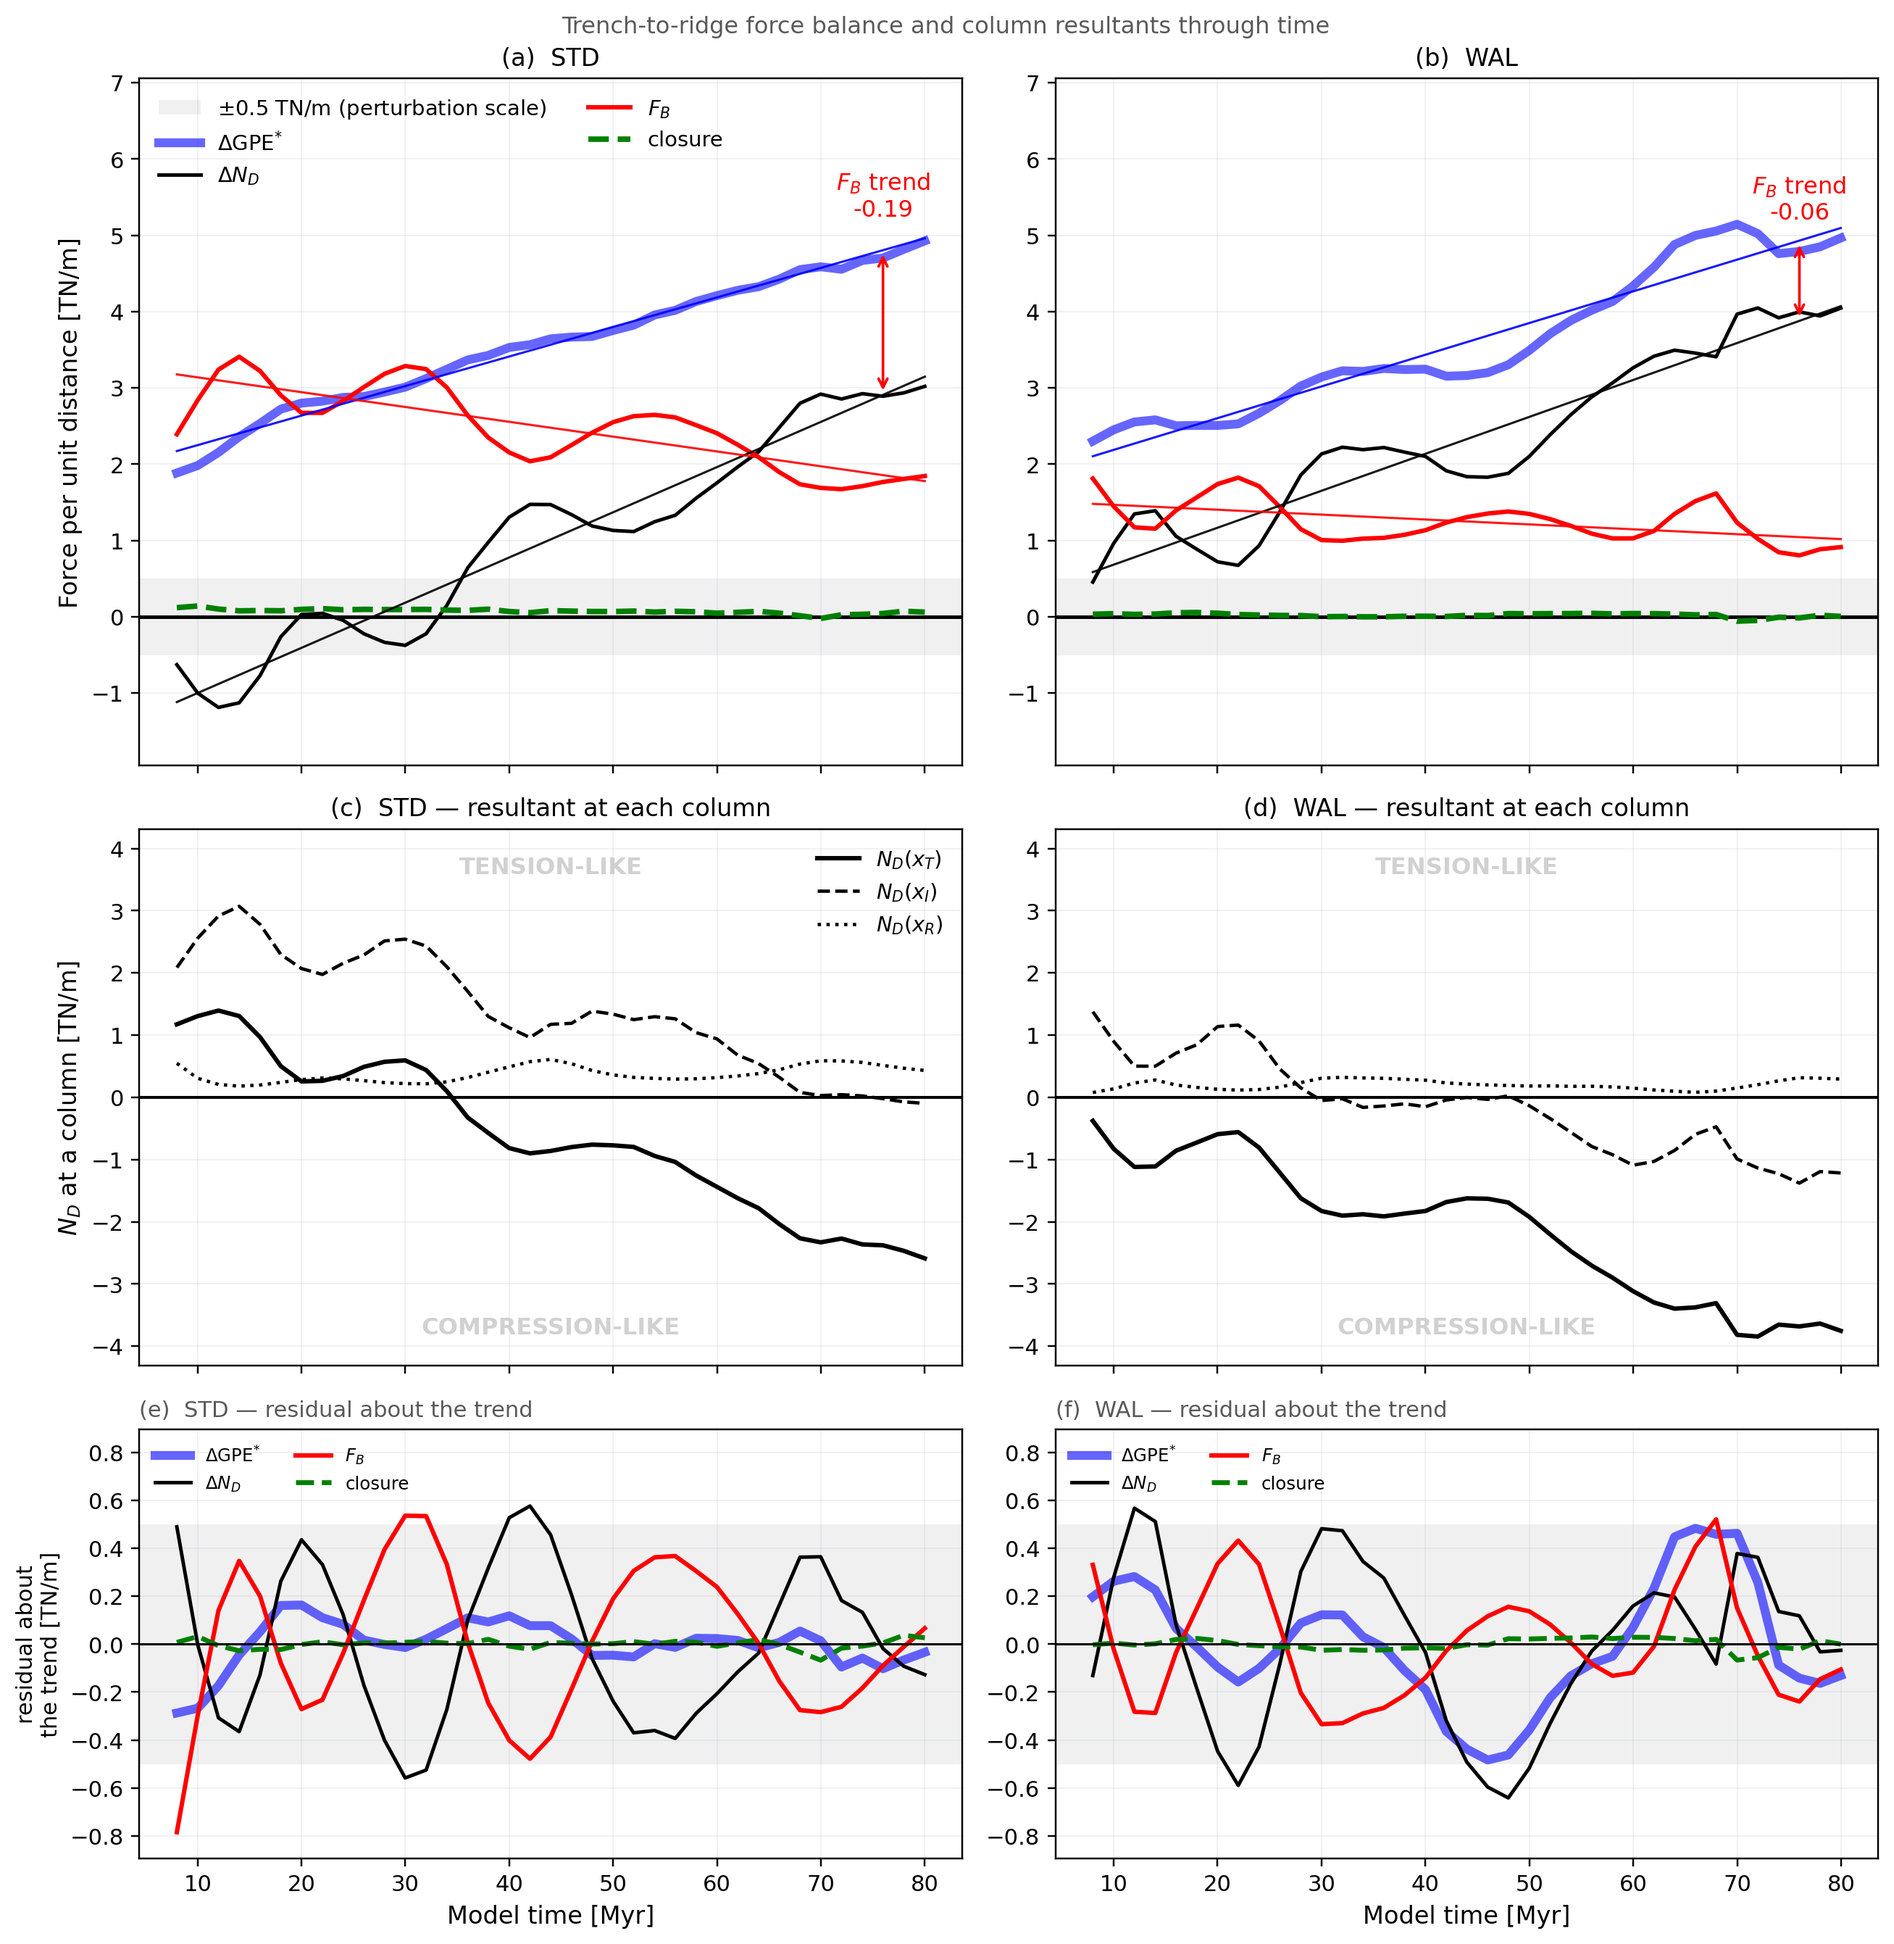
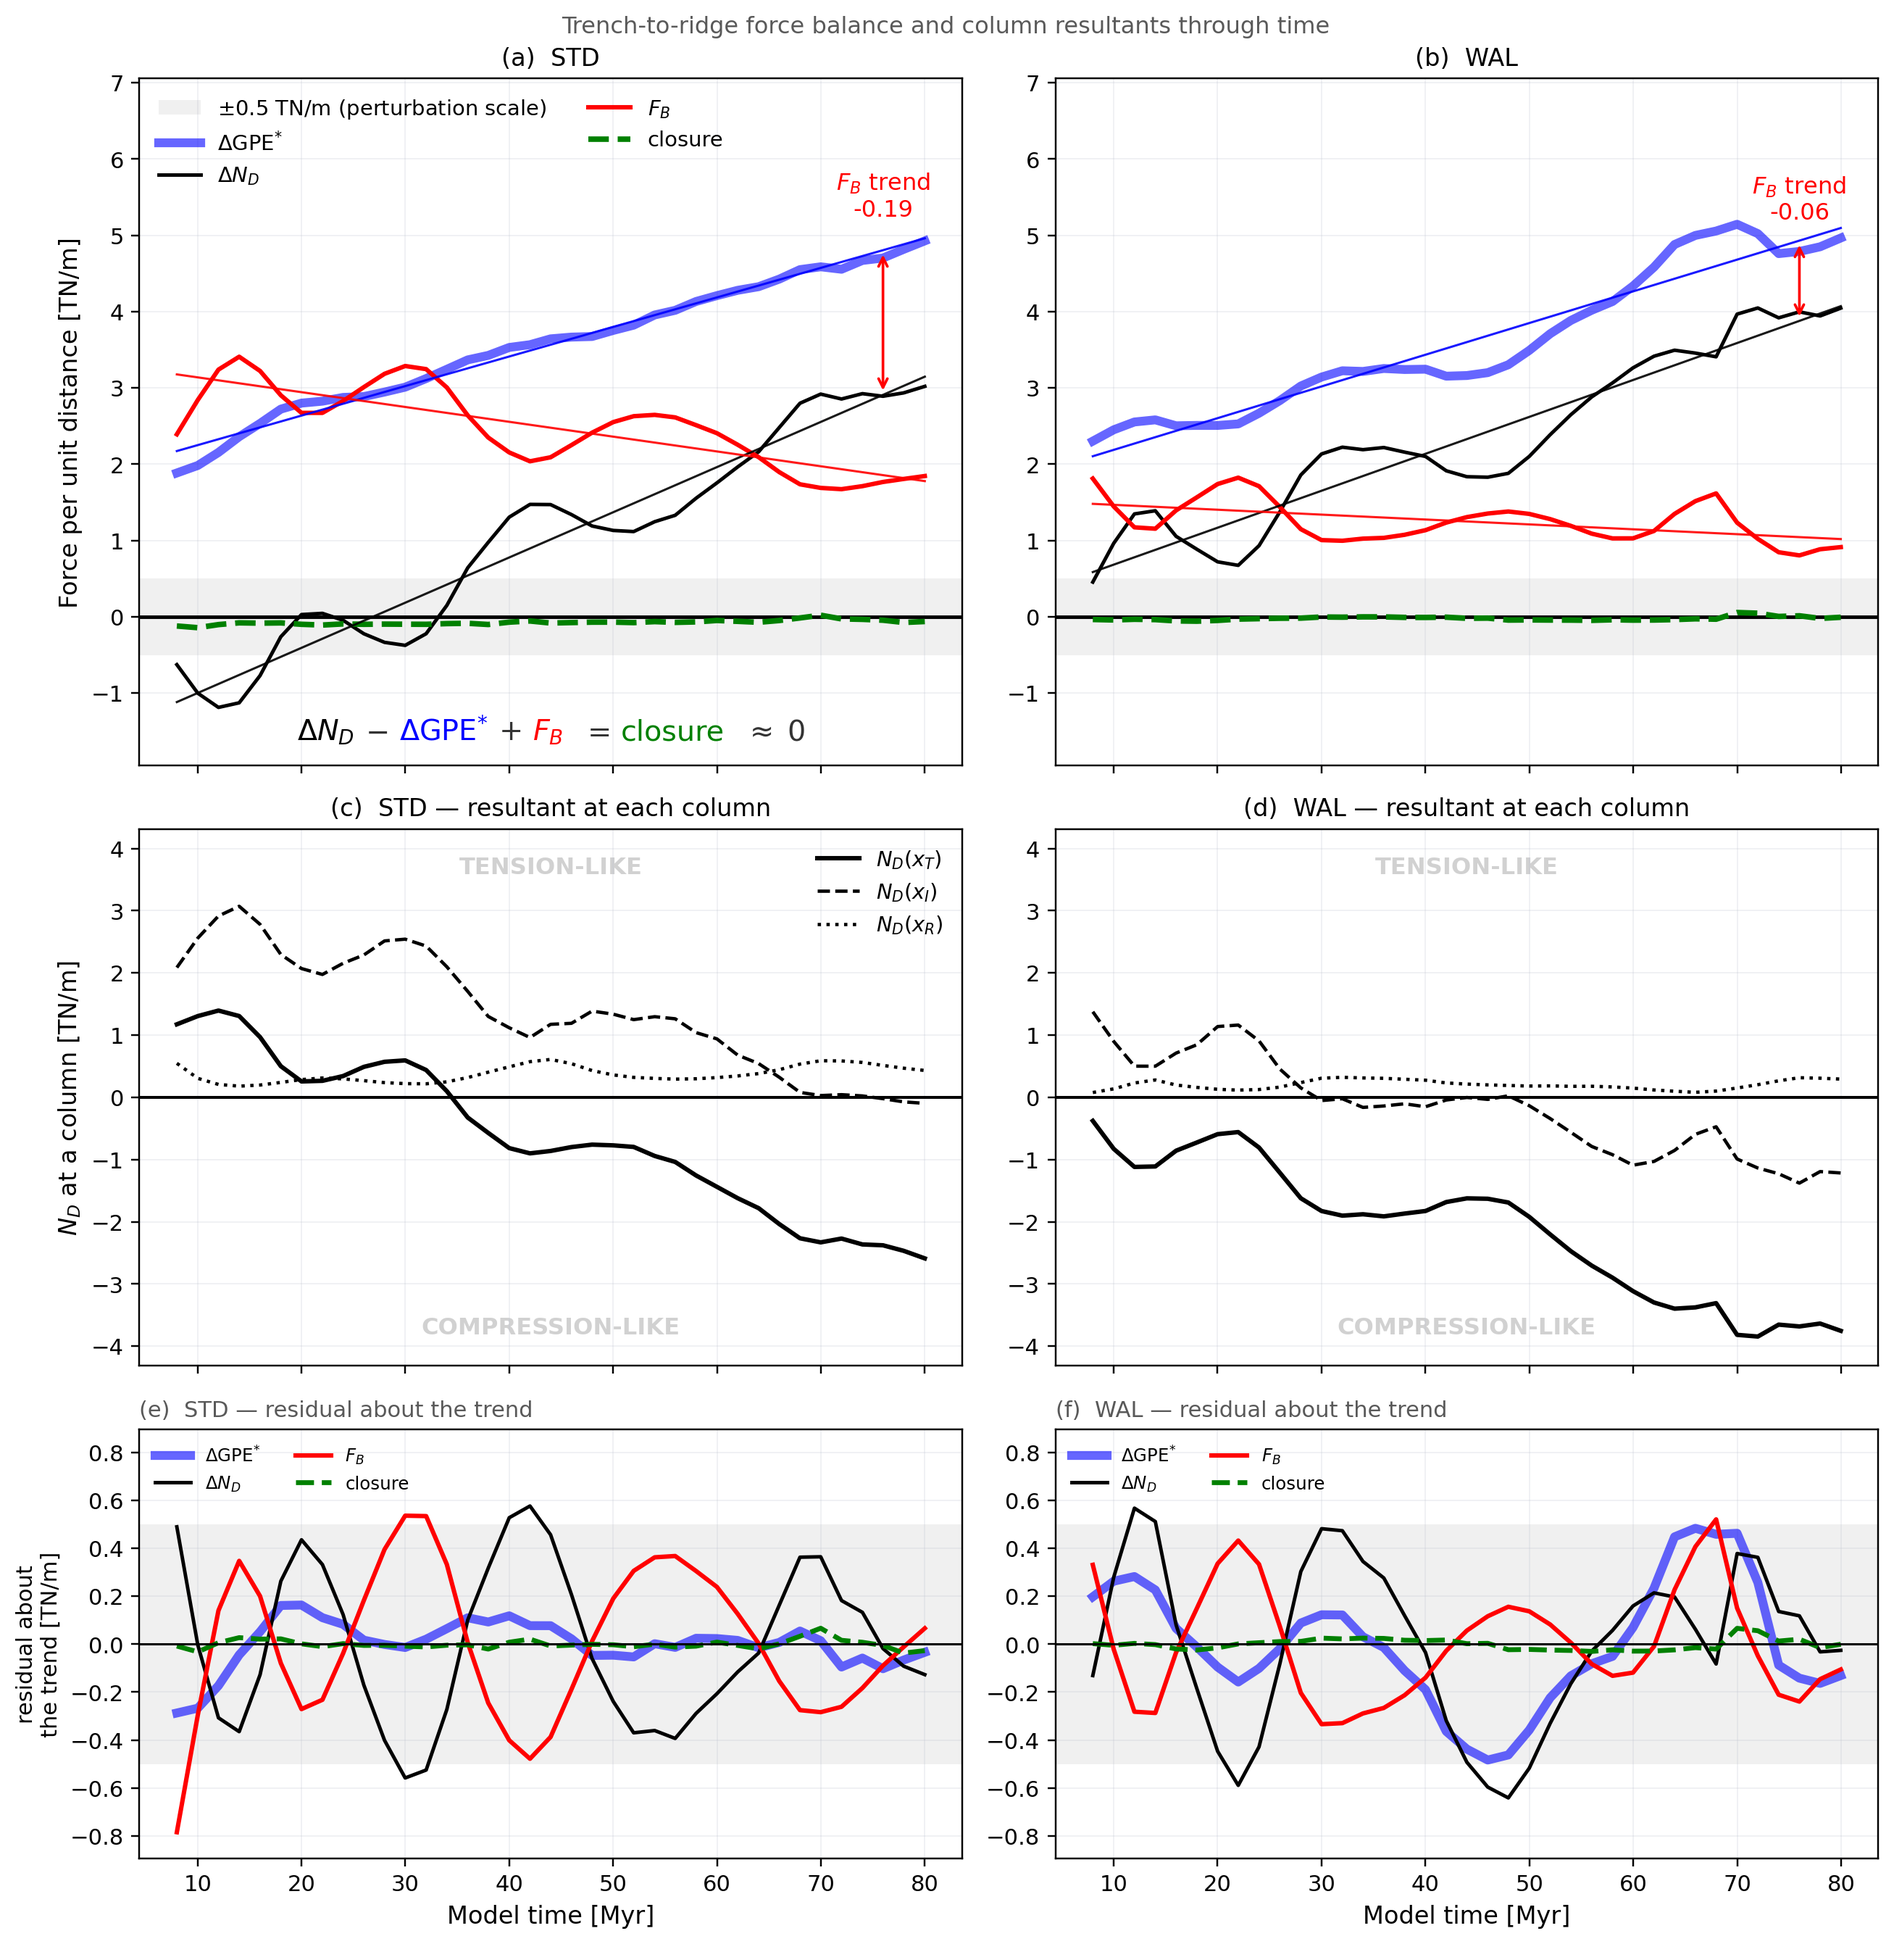
Figure 4: the balance written out, and a sign reconciled with Figure 3
TEST, panel (a) only. The top row plots the three terms as levels and
leaves the reader to infer that they close. The band below y = 0 is
empty, so the identity is simply stated there, each symbol in its own
curve's colour:

    Delta N_D - Delta GPE* + F_B  =  closure  ~ 0

Per-token colour needs an HPacker of TextAreas; mathtext cannot colour
part of one string.

⚠ A SIGN FIXED ON THE WAY. Figure 3 labels its green curve
'Delta N_D - Delta GPE* + F_B'. Figure 4 negated the same quantity, so
the two figures drew opposite signs of one curve and Figure 3's
expression could not honestly be written on Figure 4. Now both carry
Figure 3's sign and Figure 3's ordering. The magnitude is 0.03-0.08
TN/m, so nothing in the panel moves visibly; what changes is that the
two figures agree.

The legend keeps the short word 'closure' -- the written balance gives
the expression, in green, so the two are linked by colour rather than by
repeating the algebra twice in one panel.

Panel (b) is deliberately untouched pending Dan's word on rolling it out.

diff --git a/scripts/fig_budget_time_detrended.py b/scripts/fig_budget_time_detrended.py
@@ -120,6 +120,7 @@ import numpy as np
 import matplotlib
 matplotlib.use('Agg')
 import matplotlib.pyplot as plt
+from matplotlib.offsetbox import TextArea, HPacker, AnchoredOffsetbox
 
 sys.path.insert(0, os.path.dirname(os.path.abspath(__file__)))
 import column_profiles_cache as cpc
@@ -150,9 +151,13 @@ def main():
         t = q['t'][m]
         gpe, nd, fb = (q['d_gpe'][m] / 1e12, q['d_nd'][m] / 1e12,
                        q['f_b'][m] / 1e12)
-        # CLOSURE IN THE DISPLAYED REGISTER: Delta GPE* - Delta N_D - F_B.
-        # terms() returns d_nd - d_gpe + f_b, which is its negative.
-        clo = -q['closure'][m] / 1e12
+        # CLOSURE AS FIGURE 3 PLOTS IT: Delta N_D - Delta GPE* + F_B.
+        # This was negated here, so Figures 3 and 4 drew opposite signs of
+        # one quantity and Figure 3's legend expression could not be used on
+        # Figure 4's curve. The magnitude is ~0.03-0.08 TN/m, so nothing in
+        # the panel moves visibly; what changes is that the two figures now
+        # agree (Dan, 2026-10-15).
+        clo = q['closure'][m] / 1e12
         sl = lambda y: np.polyfit(t, y, 1)[0] * 10          # per 10 Myr
 
         # ---------------- top: levels, as in fig_budget_time -------------
@@ -171,6 +176,8 @@ def main():
                 label=r'$\Delta\mathrm{GPE}^{*}$')
         a0.plot(t, nd, color='k', lw=1.6, label=r'$\Delta N_D$')
         a0.plot(t, fb, color='red', lw=2, label='$F_B$')
+        # SHORT in the legend: the written balance below the axis already
+        # gives the expression, and in green, so the two are linked by colour
         a0.plot(t, clo, color='g', ls='--', lw=2.5, label='closure')
         a0.plot(t, fit(t, gpe), color='b', lw=1.0, alpha=0.9)
         a0.plot(t, fit(t, nd), color='k', lw=1.0, alpha=0.9)
@@ -194,6 +201,30 @@ def main():
         # cannot point a reader at one panel, which is what the results
         # prose has to do. Top row (a, b) levels, bottom row (c, d)
         # residuals; letter in the title so it sits clear of the curves.
+        # THE BALANCE, WRITTEN OUT, IN THE CURVES' OWN COLOURS (test in
+        # panel (a) only, Dan 2026-10-15). The three terms are plotted as
+        # levels and the reader is left to infer that they close; the band
+        # below y = 0 is empty, so the identity can simply be stated there.
+        # Per-token colour needs an HPacker -- mathtext cannot colour parts
+        # of one string.
+        if col == 0:
+            # ORDER FOLLOWS FIGURE 3 (Dan, 2026-10-15), which writes the
+            # balance as Delta N_D - Delta GPE* + F_B on its own green curve.
+            # One ordering across both figures.
+            parts = [(r'$\Delta N_D$', 'k'),
+                     (r'$-$', '0.2'),
+                     (r'$\Delta\mathrm{GPE}^{*}$', 'b'),
+                     (r'$+$', '0.2'),
+                     (r'$F_B$', 'red'),
+                     (r'$\;=\;$', '0.2'),
+                     ('closure', 'g'),
+                     (r'$\;\approx\; 0$', '0.2')]
+            pack = HPacker(children=[TextArea(txt, textprops=dict(color=c, fontsize=13))
+                                     for txt, c in parts],
+                           align='baseline', pad=0, sep=5)
+            a0.add_artist(AnchoredOffsetbox(
+                loc='lower center', child=pack, frameon=False, borderpad=0,
+                bbox_to_anchor=(0.5, 0.015), bbox_transform=a0.transAxes))
         a0.set_title(f'({"ab"[col]})  {key}', fontsize=11)
         a0.grid(alpha=0.25, color=C_RULE, lw=0.6)
 
